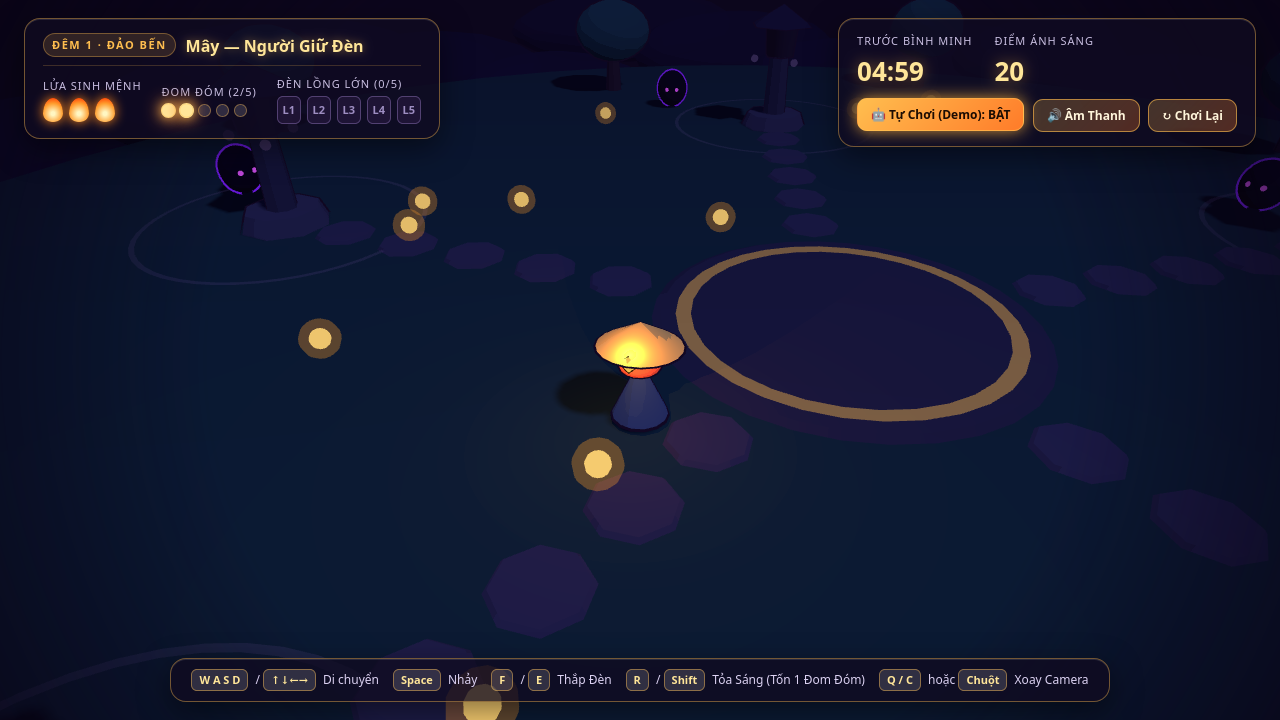
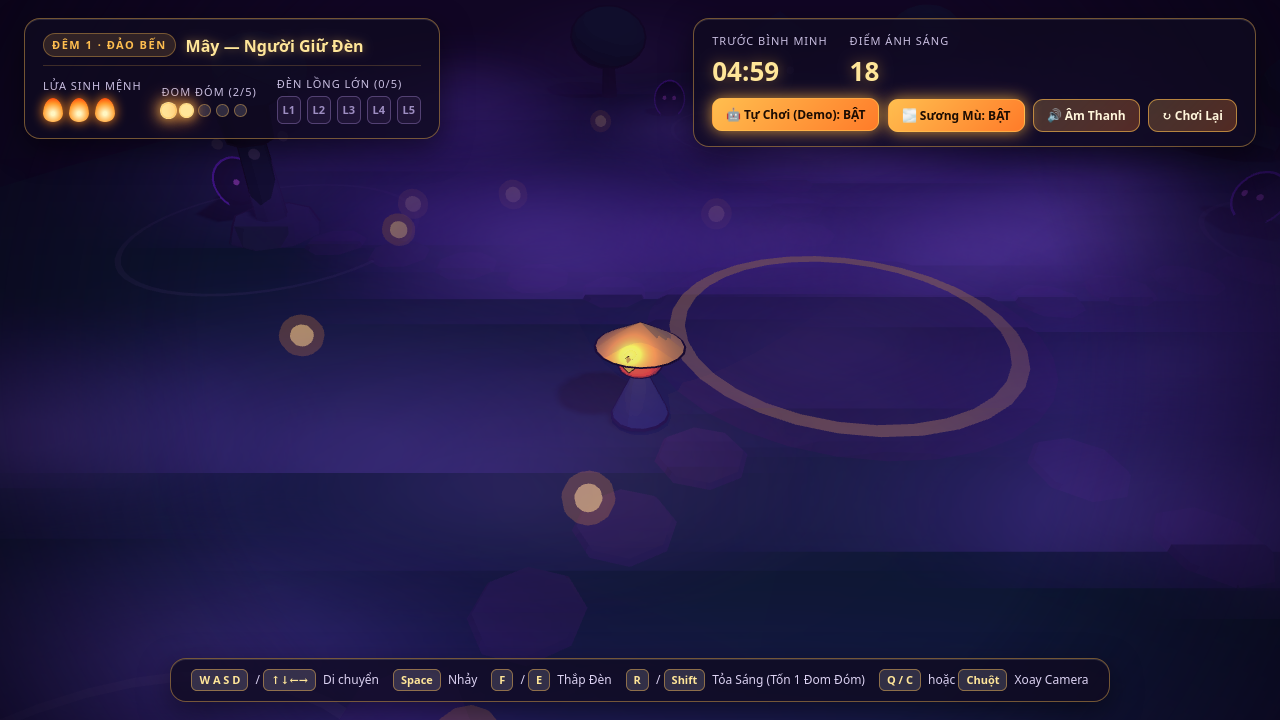
feat(client): add volumetric drifting 3D dark mist (Suong Den) and HUD fog toggle for Night 1

diff --git a/web/main.js b/web/main.js
@@ -13,7 +13,25 @@ function createToonGradientMap() {
   return tex;
 }
 
+function createMistTexture() {
+  const canvas = document.createElement("canvas");
+  canvas.width = 128;
+  canvas.height = 128;
+  const ctx = canvas.getContext("2d");
+  const grad = ctx.createRadialGradient(64, 64, 6, 64, 64, 62);
+  grad.addColorStop(0.0, "rgba(155, 118, 235, 0.65)");
+  grad.addColorStop(0.42, "rgba(96, 62, 175, 0.42)");
+  grad.addColorStop(0.75, "rgba(48, 24, 98, 0.18)");
+  grad.addColorStop(1.0, "rgba(18, 8, 42, 0.0)");
+  ctx.fillStyle = grad;
+  ctx.fillRect(0, 0, 128, 128);
+  const tex = new THREE.CanvasTexture(canvas);
+  tex.needsUpdate = true;
+  return tex;
+}
+
 const toonGradient = createToonGradientMap();
+const mistTexture = createMistTexture();
 
 function toonMat(color, opts = {}) {
   return new THREE.MeshToonMaterial({
@@ -76,6 +94,7 @@ class AnimeIslandApp {
     this.sim = new GameSimulationJS(this.tuning, 2026);
     this.started = false;
     this.botEnabled = false;
+    this.fogEnabled = true;
     this.camYawDeg = 0;
     this.camPitch = 0.48;
     this.camDist = 13.5;
@@ -116,7 +135,7 @@ class AnimeIslandApp {
     const container = document.getElementById("canvas-container");
     this.scene = new THREE.Scene();
     this.scene.background = new THREE.Color(0x0c061c);
-    this.scene.fog = new THREE.FogExp2(0x0d061f, 0.017);
+    this.scene.fog = new THREE.FogExp2(0x110624, 0.044);
 
     this.camera = new THREE.PerspectiveCamera(52, window.innerWidth / window.innerHeight, 0.1, 220);
     this.renderer = new THREE.WebGLRenderer({ antialias: true, preserveDrawingBuffer: true });
@@ -236,7 +255,38 @@ class AnimeIslandApp {
     }
     this.scene.add(this.cloudsGroup);
 
-    // 3. Starry Anime Night Sky
+    // 3. Volumetric Drifting Dark Mist (Sương Đen) across Đảo Bến
+    this.darkMistPuffs = [];
+    this.mistGroup = new THREE.Group();
+    for (let i = 0; i < 72; i++) {
+      const mat = new THREE.SpriteMaterial({
+        map: mistTexture,
+        color: i % 2 === 0 ? 0x9b76eb : 0x6c46b8,
+        transparent: true,
+        opacity: 0.52,
+        depthWrite: false,
+      });
+      const sprite = new THREE.Sprite(mat);
+      const angle = (2 * Math.PI * i) / 72 + (i % 7) * 0.13;
+      const radius = 3.2 + ((i * 13) % 22);
+      const baseY = 0.55 + (i % 4) * 0.38;
+      const size = 5.5 + (i % 5) * 1.4;
+      sprite.scale.set(size * 1.5, size * 0.65, 1);
+      sprite.position.set(Math.sin(angle) * radius, baseY, Math.cos(angle) * radius);
+      this.mistGroup.add(sprite);
+      this.darkMistPuffs.push({
+        sprite,
+        mat,
+        angle,
+        radius,
+        baseY,
+        speed: (0.045 + (i % 5) * 0.015) * (i % 2 === 0 ? 1 : -1),
+        phase: i * 0.7,
+      });
+    }
+    this.scene.add(this.mistGroup);
+
+    // 4. Starry Anime Night Sky
     const starCount = 420;
     const starPositions = new Float32Array(starCount * 3);
     for (let i = 0; i < starCount; i++) {
@@ -547,13 +597,42 @@ class AnimeIslandApp {
       }
     }
 
-    // Dynamic Island Atmosphere Brightening as lanterns are lit (0/5 -> 5/5)
+    // Dynamic Island Atmosphere & Dark Mist (Sương Đen) receding as lanterns are lit (0/5 -> 5/5)
     const progress = litCount / Math.max(1, this.sim.lanterns.length);
-    this.scene.fog.density = 0.018 - progress * 0.008;
-    const skyColor = new THREE.Color(0x0c061c).lerp(new THREE.Color(0x1b2d59), progress);
+    this.scene.fog.density = this.fogEnabled ? 0.036 - progress * 0.025 : 0.008;
+    const skyColor = new THREE.Color(0x110624).lerp(new THREE.Color(0x1b2d59), progress);
     this.scene.background.copy(skyColor);
     this.scene.fog.color.copy(skyColor);
-    this.hemiLight.intensity = 0.85 + progress * 0.75;
+    this.hemiLight.intensity = 0.78 + progress * 0.82;
+
+    // Update drifting 3D Dark Mist Puffs (repelled by Mây's light and lit Great Lanterns)
+    this.mistGroup.visible = this.fogEnabled;
+    const mayClearRadius = 4.2 + carryRatio * 2.8;
+    const lanternClearRadius = Number(this.tuning.safe_radius) * 1.85;
+    const globalMistAlpha = this.fogEnabled ? Math.max(0.05, (1.0 - progress * 0.88) * 0.56) : 0.0;
+
+    for (const puff of this.darkMistPuffs) {
+      const curAngle = puff.angle + elapsedSec * puff.speed;
+      const wobbleR = puff.radius + Math.sin(elapsedSec * 0.7 + puff.phase) * 0.8;
+      const px = Math.sin(curAngle) * wobbleR;
+      const pz = Math.cos(curAngle) * wobbleR;
+      const py = puff.baseY + Math.sin(elapsedSec * 1.3 + puff.phase) * 0.22;
+      puff.sprite.position.set(px, py, pz);
+
+      let localFactor = 1.0;
+      const dMay = Math.hypot(px - p.pos[0], pz - p.pos[2]);
+      if (dMay < mayClearRadius) {
+        localFactor = Math.min(localFactor, Math.max(0.12, (dMay / mayClearRadius) ** 2));
+      }
+      for (const l of this.sim.lanterns) {
+        if (!l.lit) continue;
+        const dL = Math.hypot(px - l.pos[0], pz - l.pos[2]);
+        if (dL < lanternClearRadius) {
+          localFactor = Math.min(localFactor, Math.max(0.0, ((dL - 1.5) / lanternClearRadius) ** 2));
+        }
+      }
+      puff.mat.opacity = globalMistAlpha * localFactor;
+    }
 
     // 3. Sync Motes (Fireflies)
     const activeMoteIds = new Set();
@@ -929,6 +1008,11 @@ class AnimeIslandApp {
     document.getElementById("btn-play-again").addEventListener("click", () => this.restartGame());
     document.getElementById("btn-replay").addEventListener("click", () => this.restartGame());
     document.getElementById("btn-bot").addEventListener("click", () => this.toggleBot());
+    document.getElementById("btn-fog").addEventListener("click", (e) => {
+      this.fogEnabled = !this.fogEnabled;
+      e.currentTarget.textContent = this.fogEnabled ? "🌫 Sương Mù: BẬT" : "🌫 Sương Mù: TẮT";
+      e.currentTarget.classList.toggle("active", this.fogEnabled);
+    });
     document.getElementById("btn-audio").addEventListener("click", (e) => {
       this.audio.muted = !this.audio.muted;
       e.currentTarget.textContent = this.audio.muted ? "🔇 Tắt Tiếng" : "🔊 Âm Thanh";

diff --git a/web/index.html b/web/index.html
@@ -321,6 +321,7 @@
         </div>
         <div class="btn-row">
           <button class="anime-btn" id="btn-bot" title="Bật/Tắt AI điều khiển Mây tự động">🤖 Tự Chơi (Demo): TẮT</button>
+          <button class="anime-btn active" id="btn-fog" title="Bật/Tắt hiệu ứng Sương Đen">🌫 Sương Mù: BẬT</button>
           <button class="anime-btn" id="btn-audio" title="Bật/Tắt âm thanh">🔊 Âm Thanh</button>
           <button class="anime-btn" id="btn-replay" title="Chơi lại Đêm 1">↻ Chơi Lại</button>
         </div>
